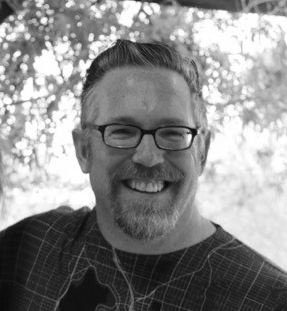
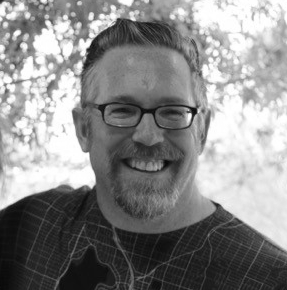
update gh-page

diff --git a/index.html b/index.html
@@ -134,7 +134,7 @@
                     <!-- Express About Yourself -->
                     <div class="content text-center">
                         <h3 class="ddd">We&#39;re Core</h3>
-                          <p>We are QGIS core developers, trainers, documenters, testers.</p>
+                          <p>We are core QGIS developers, spatial analysts, trainers, and testers.</p>
                     </div>
                 </div>
             </div>
@@ -148,7 +148,7 @@
                     <!-- Express About Yourself -->
                     <div class="content text-center">
                         <h3 class="ddd">We&#39;re Open</h3>
-                          <p>All our work is done as open source and contributed back to QGIS.</p>
+                          <p>We work with open source tools and contribute features and bug fixes back to QGIS.</p>
                     </div>
                 </div>
             </div>
@@ -162,7 +162,7 @@
                     <!-- Express About Yourself -->
                     <div class="content text-center">
                         <h3 class="ddd">We&#39;re Global</h3>
-                          <p>Our team is spreaded around the world and we speak six languages.</p>
+                          <p>Our team members are located around the world and collectively we speak six languages.</p>
                     </div>
                 </div>
             </div>
@@ -184,8 +184,8 @@
             <div class="col-lg-6">
                 <div class="content-block">
                      <h2>The right team</h2> 
-                     <p>We are an international team of professional developers, trainers, testers and documenters working together to provide a broader range of services on the leading Open Source GIS - QGIS.</p> 
-                     <p>Committed to Open Source, we are proud and active members in many key GIS related community and projects.</p> 
+                     <p>We are an international team of professional developers, spatial analysts, trainers, testers and documenters working together to provide a broader range of services on the leading Open Source GIS - QGIS.</p> 
+                     <p>Lorem ipsum dolor sit amet consectetur adipisicing elit. Aliquam tempora itaque, autem dolores culpa cum mollitia voluptate nesciunt voluptatibus quasi. Aliquam tempora itaque, autem dolores culpa cum mollitia voluptate nesciunt voluptatibus quasi.</p> 
                     <div class="row">
                         
                         <div class="col-lg-6">
@@ -194,8 +194,8 @@
                                      <i class="tf-circle-compass"></i> 
                                 </div>
                                 <div class="media-body">
-                                     <h4 class="media-heading">Spatially enabled</h4>
-                                     <p>With a wide range of backgrounds, from agriculture to remote sensing, from GIS data processing to training we can deliver the best solutions on the market for all your spatial analysis needs.</p> 
+                                     <h4 class="media-heading">SEO Optimized</h4>
+                                     <p>Lorem ipsum, dolor sit amet consectetur adipisicing elit. Possimus consectetur dolores repellendus eos saepe</p> 
                                 </div>
                             </div>
                         </div>
@@ -206,8 +206,8 @@
                                      <i class="tf-hotairballoon"></i> 
                                 </div>
                                 <div class="media-body">
-                                     <h4 class="media-heading">Agile and international</h4>
-                                     <p>Our team is trained to work as a distribute team with &#34;agile&#34; methodology, we have customers in 4 continents and we can communicate in different languages.</p> 
+                                     <h4 class="media-heading">Easy Customization</h4>
+                                     <p>Lorem ipsum, dolor sit amet consectetur adipisicing elit. Possimus consectetur dolores repellendus eos saepe</p> 
                                 </div>
                             </div>
                         </div>
@@ -259,7 +259,7 @@
                         <i class="tf-ion-android-laptop"></i>
                     </div>
                     <h3>GIS development</h3>
-                    <p>QGIS development - whether you need a simple Python plugin to speed-up your daily job or you want to develop a new C&#43;&#43; core geoprocessing pipeline we have the skills and experience to meet your requirements.</p>
+                    <p>Our team represents some of the most experienced QGIS developers - whether you need a Python plugin make your work easier or a new feature in QGIS we have the skills and experience to get the job done.</p>
                 </div>
             </article>
             <!-- End Single Service Item -->
@@ -271,7 +271,7 @@
                         <i class="tf-genius"></i>
                     </div>
                     <h3>Training</h3>
-                    <p>Our international team of experienced trainers can deliver the best training on QGIS in Europe and the US, ranging from introductory courses to advanced QGIS development both for desktop and server.</p>
+                    <p>Our international team of experienced trainers can deliver custom QGIS training (U.S. or Europe), ranging from introductory courses to custom advanced QGIS development - both for desktop and server.</p>
                 </div>
             </article>
             <!-- End Single Service Item -->
@@ -283,7 +283,7 @@
                         <i class="tf-globe"></i>
                     </div>
                     <h3>Ready for the web?</h3>
-                    <p>If you want to publish your maps and analysis we can provide you the most advanced Web GIS interactive applications and tailor them to suit your most demanding requirements.</p>
+                    <p>If you want to publish your maps and analysis to the web we can provide you the most advanced applications and tailor them to suit your most demanding requirements.</p>
                 </div>
             </article>
             <!-- End Single Service Item -->
@@ -295,7 +295,19 @@
                         <i class="tf-piechart"></i>
                     </div>
                     <h3>Spatial analysis</h3>
-                    <p>Crunching spatial data to extract all kind of information from all sort of spatially enabled backends is one of our goals. We can help you to build your efficient geoprocessing pipelines for vector data and imagery.</p>
+                    <p>We are experts in processing spatial data and extracting the useful information you need. Let us help you build efficient geoprocessing pipelines for vector data and raster imagery.</p>
+                </div>
+            </article>
+            <!-- End Single Service Item -->
+            
+            <!-- Single Service Item -->
+            <article class="col-lg-4 col-md-6 col-12 wow fadeInUp" data-wow-duration="500ms">
+                <div class="service-block text-center">
+                    <div class="service-icon text-center">
+                        <i class="tf-ion-ios-keypad-outline"></i>
+                    </div>
+                    <h3>Point Cloud processing</h3>
+                    <p>Manage complexity to process and serve Point Clound acquired via Aerial or Mobile LIDAR. We can help to extract valuable derived data.</p>
                 </div>
             </article>
             <!-- End Single Service Item -->
@@ -307,7 +319,7 @@
                         <i class="tf-target3"></i>
                     </div>
                     <h3>Quality assurance</h3>
-                    <p>Our team has been providing QA services for QGIS for years, we can run manual and automated tests on different platforms and fix bugs upstream on QGIS and on the most common open source GIS libraries.</p>
+                    <p>Encountering an annoying bug? Our team has been providing QA services for QGIS for years. We can run manual and automated tests on different platforms and fix bugs upstream on QGIS and on the most common open source GIS libraries.</p>
                 </div>
             </article>
             <!-- End Single Service Item -->
@@ -319,7 +331,7 @@
                         <i class="tf-lifesaver"></i>
                     </div>
                     <h3>Qualified support</h3>
-                    <p>Need help to find the best way to solve GIS processing problem? Is there any annoying bug slowing you down? We can help you with customized support plans for your company.</p>
+                    <p>Need help solving a GIS processing problem or data issue? We are available to help you work through those tricky issues. We can help you with customized support plans for your company.</p>
                 </div>
             </article>
             <!-- End Single Service Item -->
@@ -346,8 +358,8 @@
         </div>
         <div class="row">
             <div class="col-lg-6">
-                 <h2> We’ve skilled professionals ready to offer you a wide range of GIS services and spatial analysis tools. </h2> 
-                 <p> We are an agile team with a broad sprectrum of compentence and skills, we can help your business to grow by leveraging the most advanced open-source spatial analysis and data processing technology. </p> 
+                 <h2> We are skilled professionals ready to offer you a wide range of GIS services. </h2> 
+                 <p> We are an agile team with a broad sprectrum of competence and skills, we can help your business to grow by leveraging the most advanced open-source spatial analysis and data processing technology. </p> 
                 <img class="img-fluid" src="https://www.qcooperative.net/images/blank.png" alt="image">
             </div>
             <div class="col-lg-6">
@@ -381,7 +393,16 @@
                     </li>
                     
                     <li>
-                        <p><span>04-</span>Training</p>
+                        <p><span>04-</span>Point Clound processing</p>
+                        <div class="progress">
+                            <div class="progress-bar" role="progressbar" aria-valuenow="70" aria-valuemin="0"
+                                aria-valuemax="100" style="width:80%">
+                            </div>
+                        </div>
+                    </li>
+                    
+                    <li>
+                        <p><span>05-</span>Training</p>
                         <div class="progress">
                             <div class="progress-bar" role="progressbar" aria-valuenow="70" aria-valuemin="0"
                                 aria-valuemax="100" style="width:95%">
@@ -399,7 +420,7 @@
                     </li>
                     
                     <li>
-                        <p><span>06-</span>QA and Testing</p>
+                        <p><span>07-</span>QA and Testing</p>
                         <div class="progress">
                             <div class="progress-bar" role="progressbar" aria-valuenow="70" aria-valuemin="0"
                                 aria-valuemax="100" style="width:75%">
@@ -525,8 +546,8 @@
                     <!-- member name & designation -->
                     <div class="member-meta">
                         <h4>Alexandre Neto</h4>
-                        <span>Documentation/Training</span>
-                        <p>With an MSc in GIS, Alexandre is a Specialist in spatial analysis, cartography and (spatial) data management. He is a core contributor to QGIS user and training manuals.</p>
+                        <span>Spatial Analysis/Training</span>
+                        <p>With an MSc in GIS, Alexandre is a specialist in spatial analysis, cartography and spatial data management. He is a core contributor to QGIS user and training manuals.</p>
                     </div>
                 </div>
             </div>
@@ -537,19 +558,13 @@
                 <div class="team-member">
                     <div class="member-photo">
                         <!-- member photo -->
-                        <img class="img-fluid" src="https://www.qcooperative.net/images/team/bruy.jpg" alt="Meghna">
+                        <img class="img-fluid" src="https://www.qcooperative.net/images/team/alexbruy-profile-bw.png" alt="Meghna">
 
                         <!-- member social profile -->
                         <div class="mask">
                             <ul class="list-inline">
                                 
-                                <li class="list-inline-item"><a href="#"><i class="tf-ion-social-facebook"></i></a></li>
-                                
-                                <li class="list-inline-item"><a href="#"><i class="tf-ion-social-twitter"></i></a></li>
-                                
                                 <li class="list-inline-item"><a href="#"><i class="tf-ion-social-linkedin"></i></a></li>
-                                
-                                <li class="list-inline-item"><a href="#"><i class="tf-ion-social-dribbble-outline"></i></a></li>
                                 
                             </ul>
                         </div>
@@ -559,7 +574,7 @@
                     <div class="member-meta">
                         <h4>Alexander Bruy</h4>
                         <span>Python/C&#43;&#43; Developer</span>
-                        <p>QGIS core developer and Open Source GIS advocate – Co-founder of the TSNUK GeoForAll Lab – OSGeo Charter member and QGIS community voting member. Over 10 years of experience in open source GIS</p>
+                        <p>Alexander has more that 10 years experience with opensource GIS, focusing on QGIS core and plugins development. He is a QGIS core developer and OSGeo advocate.</p>
                     </div>
                 </div>
             </div>
@@ -570,19 +585,13 @@
                 <div class="team-member">
                     <div class="member-photo">
                         <!-- member photo -->
-                        <img class="img-fluid" src="https://www.qcooperative.net/images/team/giovanni.jpg" alt="Meghna">
+                        <img class="img-fluid" src="https://www.qcooperative.net/images/team/team-4.jpg" alt="Meghna">
 
                         <!-- member social profile -->
                         <div class="mask">
                             <ul class="list-inline">
                                 
-                                <li class="list-inline-item"><a href="#"><i class="tf-ion-social-facebook"></i></a></li>
-                                
-                                <li class="list-inline-item"><a href="#"><i class="tf-ion-social-twitter"></i></a></li>
-                                
                                 <li class="list-inline-item"><a href="#"><i class="tf-ion-social-linkedin"></i></a></li>
-                                
-                                <li class="list-inline-item"><a href="#"><i class="tf-ion-social-dribbble-outline"></i></a></li>
                                 
                             </ul>
                         </div>
@@ -592,7 +601,7 @@
                     <div class="member-meta">
                         <h4>Giovanni Manghi</h4>
                         <span>Training/Testing</span>
-                        <p>Biologist specialized in Conservation Biology Partner and charter member of the OSGeo Foundation – Open Source Geospatial Foundation Founding partner of OSGeo Portugal – Portuguese Geographic Free and Open-Source Software Association Over 10 years of experience in Open Source GIS</p>
+                        <p>Giovanni is a founding partner of OSGeo Portugal and the Portuguese QGIS user group. He has over 10 years of experience in open source GIS, with a special focus on training, quality assurance/testing and implementing spatial infrastructures.</p>
                     </div>
                 </div>
             </div>
@@ -620,8 +629,8 @@
                     <!-- member name & designation -->
                     <div class="member-meta">
                         <h4>Kurt Menke</h4>
-                        <span>Training</span>
-                        <p>Kurt has a broad skillset. He is a QGIS power user, spatial analyst, cartographer, web map developer, teacher and author with 20 years of geospatial experience.</p>
+                        <span>Spatial Analysis/Cartography/Training</span>
+                        <p>Kurt is a QGIS power user, spatial analyst, cartographer, web map developer, teacher and author with 20&#43; years of geospatial experience. He has worked on hundreds of projects in a wide variety of application areas. He is an OsGeo Charter Member and helped establish the QGIS U.S User Group.</p>
                     </div>
                 </div>
             </div>
@@ -650,7 +659,7 @@
                     <div class="member-meta">
                         <h4>Luigi Pirelli</h4>
                         <span>Python/C&#43;&#43; Developer</span>
-                        <p>More than 20 years developing Earth Observation and GIS solutions. QGIS core developer specialised in bug fix, plugin development, Point Cloud processing and technical training. Founder of the Italian OSGeo local chapter and Spanish QGIS User Group.</p>
+                        <p>Luigi has more than 20 years of experience developing GIS and earth observation solutions. He is a QGIS core developer specializing in bug fixing, plugin development, point cloud processing and technical training. He is the founder of the Italian OSGeo local chapter and Spanish QGIS User Group.</p>
                     </div>
                 </div>
             </div>
@@ -713,7 +722,7 @@
             <!-- Contact Details -->
             <div class="contact-info col-lg-6 wow fadeInUp" data-wow-duration="500ms">
                 <h3>Contact Details</h3> 
-                 <p> We are here to help! Please describe briefly your activity and what we can do for you and we will get in touch with you ASAP. </p> 
+                 <p> We are here to help! Please provide a brief describe of your project and what we can do for you, and we will get in touch with you ASAP. </p> 
                 <div class="contact-details">
                     
                     <div class="con-info clearfix">

diff --git a/js/script.min.js b/js/script.min.js
@@ -3,6 +3,6 @@ $("#testimonials").slick({infinite:true,arrows:false,autoplay:true,autoplaySpeed
 if(email.length==0||email.indexOf('@')=='-1'){var error=true;$('#email').css("border-color","#D8000C");}else{$('#email').css("border-color","#666");}
 if(subject.length==0){var error=true;$('#subject').css("border-color","#D8000C");}else{$('#subject').css("border-color","#666");}
 if(message.length==0){var error=true;$('#message').css("border-color","#D8000C");}else{$('#message').css("border-color","#666");}
-if(error==false){$('#contact-submit').attr({'disabled':'false','value':'Sending...'});$.post("sendmail.php",$("#contact-form").serialize(),function(result){if(result=='sent'){$('#cf-submit').remove();$('#mail-success').fadeIn(500);}else{$('#mail-fail').fadeIn(500);$('#contact-submit').removeAttr('disabled').attr('value','Send The Message');}});}});var el=$('.tf-ion-ios-email-outline').parent().find('span');var newText=el.text().replace(/(\w+@[\w\.]+)/,'<a href="mailto:$1">$1</a>');console.log(newText);el.replaceWith(newText);});var wow=new WOW({offset:100,mobile:false});var scrolled=false;$(window).on('scroll',function(){if(!scrolled){scrolled=true;wow.init();}})
+if(error==false){$('#contact-submit').attr({'disabled':'false','value':'Sending...'});$.post("sendmail.php",$("#contact-form").serialize(),function(result){if(result=='sent'){$('#cf-submit').remove();$('#mail-success').fadeIn(500);}else{$('#mail-fail').fadeIn(500);$('#contact-submit').removeAttr('disabled').attr('value','Send The Message');}});}});var el=$('.tf-ion-ios-email-outline').parent().find('span');var newText=el.text().replace(/(\w+@[\w\.]+)/,'<a href="mailto:$1">$1</a>');console.log(newText);el.replaceWith("Email: "+newText);});var wow=new WOW({offset:100,mobile:false});var scrolled=false;$(window).on('scroll',function(){if(!scrolled){scrolled=true;wow.init();}})
 function initialize(){var latitude=$('#map-canvas').attr('data-latitude');var longitude=$('#map-canvas').attr('data-longitude');var myLatLng=new google.maps.LatLng(latitude,longitude);var roadAtlasStyles=[{"featureType":"landscape","elementType":"geometry.fill","stylers":[{"color":"#2F3238"}]},{"elementType":"labels.text.fill","stylers":[{"color":"#FFFFFF"}]},{"elementType":"labels.text.stroke","stylers":[{"visibility":"off"}]},{"featureType":"road","elementType":"geometry.fill","stylers":[{"color":"#50525f"}]},{"featureType":"road","elementType":"geometry.stroke","stylers":[{"visibility":"on"},{"color":"#808080"}]},{"featureType":"poi","elementType":"labels","stylers":[{"visibility":"off"}]},{"featureType":"transit","elementType":"labels.icon","stylers":[{"visibility":"off"}]},{"featureType":"poi","elementType":"geometry","stylers":[{"color":"#808080"}]},{"featureType":"water","elementType":"geometry.fill","stylers":[{"color":"#3071a7"},{"saturation":-65}]},{"featureType":"road","elementType":"labels.icon","stylers":[{"visibility":"off"}]},{"featureType":"landscape","elementType":"geometry.stroke","stylers":[{"color":"#bbbbbb"}]}];var mapOptions={zoom:14,center:myLatLng,disableDefaultUI:true,scrollwheel:false,navigationControl:false,mapTypeControl:false,scaleControl:false,draggable:false,mapTypeControlOptions:{mapTypeIds:[google.maps.MapTypeId.ROADMAP,'roadatlas']}};var map=new google.maps.Map(document.getElementById('map-canvas'),mapOptions);var marker=new google.maps.Marker({position:myLatLng,map:map,title:'',});google.maps.event.addListener(marker,'click',function(){infowindow.open(map,marker);});var styledMapOptions={name:'US Road Atlas'};var usRoadMapType=new google.maps.StyledMapType(roadAtlasStyles,styledMapOptions);map.mapTypes.set('roadatlas',usRoadMapType);map.setMapTypeId('roadatlas');}
 function changeValue(elementName,newValue){document.getElementsByName(elementName)[0].value=newValue;};$(document).ready(function(){$('form').submit(function(){if($('input[type="text"]#e-mail').val().length>0){$('form').attr('action','/');return false;}});});
